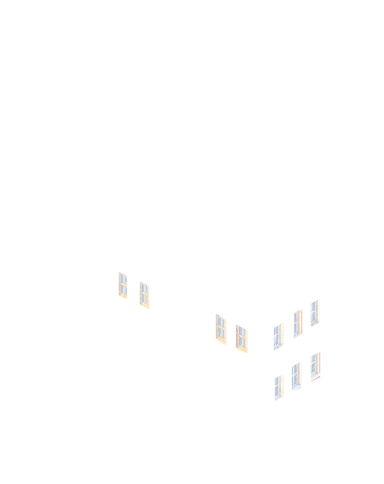
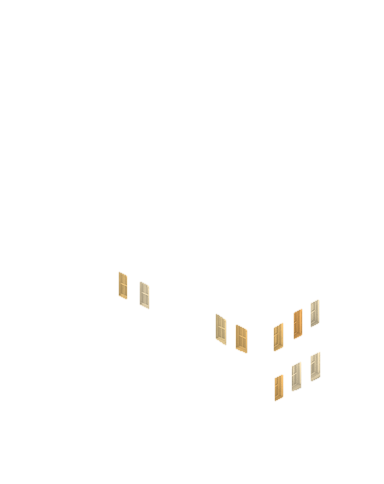
Night lights: glows are warm; a new Sign kind keeps the art's colour
'Glow' covered two things: windows that stay on all night, and things
with a colour of their own. Now a glow is lit warm exactly like a
window (and stays on all night), and a sign keeps the sprite's hue.

Of the 91 glows, 23 become signs: the clinics' and hospital's crosses
and the clinic's glass sign panel, the aquarium's tanks and dome, the
power station's plasma core and the reactor dome. The other 68 (clinic,
hospital, fire and police station windows) are now warm.

build.py writes a sign to lights.json as a glow, so the app is
unchanged. Review page: a third Sign button; G steps window, glow, sign.

diff --git a/tools/night_lights/review.html b/tools/night_lights/review.html
@@ -55,8 +55,9 @@
       <button data-tool="edit">Edit<kbd>E</kbd></button>
     </div>
     <div class="group" id="kinds" title="In Edit: the kind of the selected regions (click to change it). Otherwise: the kind of the next region you draw">
-      <button data-kind="w">Window</button>
-      <button data-kind="g">Glow (sign)</button>
+      <button data-kind="w" title="Lit warm; keeps a room's hours, dark from midnight to 5:30">Window</button>
+      <button data-kind="g" title="Lit warm like a window, but on all night">Glow</button>
+      <button data-kind="s" title="Keeps the art's own colour (a cross, a neon, a screen, a tank); on all night">Sign</button>
     </div>
     <div class="group" id="slopes" title="Which way the box's top edge runs">
       <button data-slope="0.5">╲</button>
@@ -90,7 +91,7 @@ const HELP = {
   draw: '<b>Draw</b>: click each corner of the shape (3 to 6). Click the first corner again, double-click or press <b>Enter</b> to finish; <b>Esc</b> cancels.',
   wand: '<b>Wand</b>: click inside a window; it grows to the patch of similar colour and becomes a polygon. Raise the tolerance if it stops short, lower it if it leaks.',
   lamp: '<b>Lamp</b>: click a porch lamp, a garden light, any point of light. It shines as a bright core in a round halo, from dusk until dawn. <b>[ ]</b> makes it smaller or bigger.',
-  edit: '<b>Edit</b>: click a region to select it; <b>Shift-click</b> adds or removes one; <b>drag a box</b> to select everything inside (Shift adds to the selection); <b>⌘A</b> selects all. One selected: drag a corner, double-click an edge to add a corner (up to 6), Alt-click a corner to remove it. Any selection: drag inside to move, <b>⌘D</b> duplicates, <b>Delete</b> removes, <b>G</b> or the Window / Glow buttons change the kind, <b>[ ]</b> shrink / grow, <b>Esc</b> deselects.',
+  edit: '<b>Edit</b>: click a region to select it; <b>Shift-click</b> adds or removes one; <b>drag a box</b> to select everything inside (Shift adds to the selection); <b>⌘A</b> selects all. One selected: drag a corner, double-click an edge to add a corner (up to 6), Alt-click a corner to remove it. Any selection: drag inside to move, <b>⌘D</b> duplicates, <b>Delete</b> removes, <b>G</b> or the Window / Glow / Sign buttons change the kind, <b>[ ]</b> shrink / grow, <b>Esc</b> deselects.',
 };
 const $ = (id) => document.getElementById(id);
 const S = { sprites: {}, names: [], cur: null, tool: 'box', kind: 'w', slope: 0.5, night: true, outlines: true, zoom: 0, hover: null, sels: [], drag: null, draft: null, mouse: null, tint: [80, 95, 160], undo: [] };
@@ -151,6 +152,7 @@ function render() {
   }
   if (S.outlines) {
     ctx.lineWidth = u; ctx.strokeStyle = 'rgba(120,200,255,.9)'; pathOf(ctx, on.filter((r) => r.k === 'g'), z); ctx.stroke();
+    ctx.strokeStyle = 'rgba(255,130,210,.95)'; pathOf(ctx, on.filter((r) => r.k === 's'), z); ctx.stroke();
     ctx.strokeStyle = 'rgba(255,214,150,.9)'; pathOf(ctx, on.filter((r) => r.k === 'l'), z); ctx.stroke();
   }
   if (S.hover && !S.sels.includes(S.hover)) { ctx.lineWidth = 1.5 * u; ctx.strokeStyle = 'rgba(255,255,255,.75)'; pathOf(ctx, [S.hover], z); ctx.stroke(); }
@@ -168,7 +170,7 @@ function render() {
   }
   $('title').textContent = S.cur;
   setActive('kinds', 'kind', shownKind());
-  const KIND = { w: 'window', g: 'glow', l: 'lamp' };
+  const KIND = { w: 'window', g: 'glow', s: 'sign', l: 'lamp' };
   const sel = one() ? ` · selected: ${KIND[one().k]}${one().k === 'l' ? '' : ', ' + one().p.length / 2 + ' corners'}` : S.sels.length ? ` · ${S.sels.length} selected` : '';
   $('status').textContent = `${on.length} ${on.length === 1 ? 'region' : 'regions'}${sel}`;
   $('undo').disabled = !S.undo.length;
@@ -325,10 +327,11 @@ function setActive(groupId, attr, value) { for (const b of $(groupId).children) 
 function setTool(t) { S.tool = t; S.hover = null; S.draft = null; S.drag = null; if (t !== 'edit') S.sels = []; setActive('tools', 'tool', t); $('help').innerHTML = HELP[t] + ' Everything saves as you go.'; render(); }
 function setToolKeepingSelection(t) { const sels = S.sels; setTool(t); S.sels = sels; render(); }
 $('tools').onclick = (e) => { const t = e.target.closest('button')?.dataset.tool; if (t) setTool(t); };
-// Window / Glow: in Edit with a selection, the buttons show its kind (neither when it is mixed or all
-// lamps) and change it. Otherwise they are the kind of the next region drawn, so picking Glow for
+// Window / Glow / Sign: in Edit with a selection, the buttons show its kind (none when it is mixed or
+// all lamps) and change it. Otherwise they are the kind of the next region drawn, so picking Glow for
 // the next sign does not turn the window just drawn into one.
 const editingSelection = () => S.tool === 'edit' && S.sels.length > 0;
+const NEXT_KIND = { w: 'g', g: 's', s: 'w' }; // what G steps a selection through
 function shownKind() { if (!editingSelection()) return S.kind; const rs = S.sels.filter((r) => r.k !== 'l'); return rs.length && rs.every((r) => r.k === rs[0].k) ? rs[0].k : null; }
 async function changeKind(k) {
   const rs = S.sels.filter((r) => r.k !== 'l' && r.k !== k); if (!rs.length) return;
@@ -357,7 +360,7 @@ window.addEventListener('keydown', async (e) => {
   if (k === 'escape') { if (S.draft) S.draft = null; else S.sels = []; render(); }
   else if (k === 'enter' && S.draft) await finishDraft();
   else if ((k === 'delete' || k === 'backspace') && S.sels.length) await removeSelected();
-  else if (k === 'g' && S.sels.length) await changeKind(S.sels.find((r) => r.k !== 'l')?.k === 'w' ? 'g' : 'w');
+  else if (k === 'g' && S.sels.length) await changeKind(NEXT_KIND[S.sels.find((r) => r.k !== 'l')?.k] || 'w');
   else if (k === '[' && S.sels.length) await scaleSelected(1 / 1.15);
   else if (k === ']' && S.sels.length) await scaleSelected(1.15);
   else if (k === 'arrowright') step(1); else if (k === 'arrowleft') step(-1);

diff --git a/tools/night_lights/nl_common.py b/tools/night_lights/nl_common.py
@@ -69,7 +69,7 @@ def sprite_size(name: str) -> tuple[int, int]:
 
 def regions_of(name: str, saved: dict) -> list[dict]:
     """The regions drawn on a sprite: `[{id, k, p}]`, `k` being `w`
-    (window), `g` (glow) or `l` (lamp) and `p` a flat polygon."""
+    (window), `g` (glow), `s` (sign) or `l` (lamp) and `p` a flat polygon."""
     return saved.get(name, {}).get("regions", [])
 
 
@@ -140,9 +140,10 @@ def region_centroid(polygon: list[float]) -> tuple[float, float]:
 def bake_lit(rgba: np.ndarray, regions: list[dict], sprite: str) -> np.ndarray:
     """The lit pixels of [regions] as an RGBA image the size of the sprite.
 
-    A window keeps the sprite's own detail — frames, curtains, panes — as a
-    brightness pattern, recoloured to a warm light; a `glow` region (signs,
-    lamps, screens) keeps its own hue and is pushed bright. Alpha is the
+    A window (`w`) and a glow (`g`: the same light, on all night) keep the
+    sprite's own detail — frames, curtains, panes — as a brightness pattern,
+    recoloured to a warm light. A sign (`s`: a cross, a neon, a screen, a
+    tank of water) keeps its own hue and is pushed bright. Alpha is the
     region's coverage with a one-pixel feather, clipped to the sprite.
     """
     h, w = rgba.shape[:2]
@@ -161,7 +162,7 @@ def bake_lit(rgba: np.ndarray, regions: list[dict], sprite: str) -> np.ndarray:
         values = luma[mask]
         lo, hi = np.percentile(values, 5), np.percentile(values, 95)
         norm = np.clip((luma - lo) / max(hi - lo, 0.08), 0.0, 1.0)
-        if region.get("k") == "g":
+        if region.get("k") == "s":
             # Keep the hue: scale each pixel so its brightest channel is full.
             peak = np.maximum(rgb.max(axis=2, keepdims=True), 1.0)
             colour = rgb / peak * 255.0

diff --git a/tools/night_lights/build.py b/tools/night_lights/build.py
@@ -19,6 +19,10 @@ sys.path.insert(0, str(Path(__file__).resolve().parent))
 import nl_common as nl  # noqa: E402
 
 
+# Region kind → the kind the app reads from lights.json.
+APP_KIND = {"s": "g"}
+
+
 def build_sprite(name: str, saved: dict, lights: dict) -> int:
     """Bakes one sprite; updates [lights] in place. Returns its region count.
     A sprite with no regions has no entry and no lit image."""
@@ -36,7 +40,9 @@ def build_sprite(name: str, saved: dict, lights: dict) -> int:
     h, w = rgba.shape[:2]
     lights[name] = {
         "s": [w, h],
-        "r": [{"k": r["k"], "p": r["p"]} for r in regions],
+        # The app only needs the hours: a sign burns all night like a glow,
+        # and its colour is already in the lit image.
+        "r": [{"k": APP_KIND.get(r["k"], r["k"]), "p": r["p"]} for r in regions],
     }
     return len(regions)
 

diff --git a/plan.md b/plan.md
@@ -8,8 +8,9 @@
 ## Status
 
 - **Phase:** **Phase 10 — Construction Loop (in progress; zoom-not-swap camera + wheel overlay + opening celebration device-verified 2026-09-20)** — spec in [city_builder.md §8](city_builder.md). Phase 9 is effectively complete for content (catalog + art + land); its remaining themed-maps item stays open, its upgrade-tiers and events items are superseded/deferred by Phase 10, and the price-tuning-by-playtest next action carries into Phase 10 (prices are now the *total* a site is paid down to). Phase 9 as it stood: Rich Implementation & Graphics (in progress). Implementing the [city_builder.md](city_builder.md) catalog: **all 55 §3 buildings wired and sprite-backed** (added `gym` — services, 2×2, unlocked by `sports_field`, single variant) (71/73 beats — the 2 missing are the ratio-warning beats needing the §7 TriggerRule extension), `train_station` dropped (the rail can't be drawn coherently). Road-tile sprites done, non-square footprints fixed (#90), **land expansion shipped (device-verified)**, ✅-marker sync script live. **All sprites now affine-fit their footprints** — the original 16 dimension-mismatch flags are all cleared (15 by NB regeneration, `clinic` by re-footprinting 2×1); no squash placeholders remain. Phase 8 (the city_builder.md design doc) is complete. Phase 7's headless work is complete; the remaining device-verification sweep is owed — now doable on the local Android emulator (the web-sandbox no-emulator blocker no longer applies). Phase 6 left two deliberately-deferred sub-tracks: (a) selective DeepMind expansion (variety only, optional); (b) adaptive-system + mix-policy tuning (needs playtest data first). Live counts for the curriculum are in [curriculum.md](curriculum.md).
-- **Last updated:** 2026-10-03 (window lights are warm shades only)
-- **Last action (2026-10-03, direct to `main`):** **Window lights: warm shades only.** The window palette in [nl_common.py](tools/night_lights/nl_common.py) had a neutral white and a cool blue-white among its eight colours for variety (303 of the 1,128 windows); the user found the blue ones an eyesore. Both are now warm (pale gold to amber) and all 87 lit sprites are re-baked (62 PNGs changed). Glows are untouched: they keep the art's own colour, so the 38 glows drawn on blue glass (aquarium, clinics, hospital, power plant, power station) still come out blue — the user's call whether those should be warmed too. No Dart change; 1178 tests pass; checked on the Pixel 7 AVD at 8 pm.
+- **Last updated:** 2026-10-03 (night lights: glows are warm, a new Sign kind keeps the art's colour)
+- **Last action (2026-10-03, direct to `main`):** **Night lights: glows go warm; signs keep their colour.** The user wanted every light warm except signs (the clinics' and hospital's crosses). "Glow" meant two things: windows that stay on all night, and things with a colour of their own. Now three shape kinds in [regions.json](tools/night_lights/regions.json): `w` window (warm, room hours), `g` glow (warm, all night), `s` **sign** (the art's own colour, all night). `build.py` writes a sign to `lights.json` as a glow, so the app is unchanged. Of the user's 91 glows, 23 became signs — the crosses and the clinic's glass sign panel (8), the aquarium's tanks and dome (8), the power station's plasma core (5), the reactor dome (2) — and 68 stay glows, now warm (clinic, hospital, fire and police station windows). The tanks, plasma and dome were kept in colour on my judgment after rendering both: warm turns them into flat orange panels. Review page: a third **Sign** button, G steps window → glow → sign. Browser tests 23 + 34 checks; no Dart change; 1178 tests pass.
+- **Prior action (2026-10-03, direct to `main`):** **Window lights: warm shades only.** The window palette in [nl_common.py](tools/night_lights/nl_common.py) had a neutral white and a cool blue-white among its eight colours for variety (303 of the 1,128 windows); the user found the blue ones an eyesore. Both are now warm (pale gold to amber) and all 87 lit sprites are re-baked (62 PNGs changed). Glows are untouched: they keep the art's own colour, so the 38 glows drawn on blue glass (aquarium, clinics, hospital, power plant, power station) still come out blue — the user's call whether those should be warmed too. No Dart change; 1178 tests pass; checked on the Pixel 7 AVD at 8 pm.
 - **Prior action (2026-10-03, direct to `main`):** **Street lanterns: kerbs on a checkerboard, not straight tiles only.** The user spotted a part of Sam's town with no lamps at all. Cause, measured on the town pulled from the emulator's database: [lampSpots](lib/domain/city/street_lamps.dart) lit only straight tiles on even coordinates, and the road rings round neighbouring buildings merge into two-tile-wide roads and tight grids where every tile is a junction (37 junctions, 25 bends, 7 dead ends, 26 odd straights against 24 lit tiles of 119) — the built-up middle got the fewest lamps. Now: every other road tile in a checkerboard, at a **kerb** (a side with no road beyond it), so T-junctions, wide roads, bends and dead ends are lit and only crossings stay clear; a lamp within one tile of an earlier one takes the tile's other kerb or is dropped (no doubled lamps inside bends). Sam's town: 24 → 52 lamps, even coverage. Tests rewritten (+8, **1178 pass**), analyze clean, device-verified at 8 pm. Also committed the user's later light edits (aquarium, power plant: ten windows became glows).
 - **Prior action (2026-10-03, direct to `main`):** **Night lights: the user's review is done and baked.** All 101 building sprites are marked reviewed in [regions.json](tools/night_lights/regions.json): **1,138 windows, 81 glows, 122 lamps over 87 sprites**, 14 left dark on purpose. `assets/buildings/lights.json` and `assets/buildings/lit/` (87 PNGs, 2.4 MB) are the fresh bake of that file. The review page's Window / Glow buttons now show and change the selection in Edit (they only set the next region's kind before, which misled the user), and it refuses zero-area regions. Analyze clean, **1170 tests pass**; checked on the Pixel 7 AVD at night.
 - **Prior action (2026-10-02, direct to `main`):** **Debug time-of-day control.** In debug builds a tap on the city screen's clock chip opens [clock_debug_sheet.dart](lib/presentation/city/clock_debug_sheet.dart): a slider over the whole day in quarter hours, six presets (6 am … 2 am) and a *Pause the clock* switch that outlasts the sheet for the visit (the chip shows ⏸; `_debugClockPaused` joins chapter one in freezing `AmbientClock`). The sheet has no scrim, so the town shows the hour as the slider moves. Asked for by the user to check their hand-drawn night windows (nine sprites so far, uncommitted in their checkout), which look right on the Pixel 7 AVD at 8 pm. +6 widget tests; analyze clean, **1170 tests pass**; device-verified.

diff --git a/tools/night_lights/README.md b/tools/night_lights/README.md
@@ -27,13 +27,21 @@ window, never more than six.
 - **Lamp** (L): click a point of light: a porch lamp, a garden light, a
   bulb on a string. No shape to draw; the app paints a bright core in a
   round halo there. `[` and `]` resize it.
-- **Window / Glow**: in Edit with regions selected, the two buttons show
-  their kind and clicking one changes them (as does G); neither is lit
-  when the selection is mixed or all lamps. In the drawing tools, or with
-  nothing selected, they set what the next region you draw will be. A
-  *window* is relit warm and keeps a room's hours (dark from midnight to
-  5:30). A *glow* (a sign, a screen, a ride) keeps its own colour. **Glows
-  and lamps stay on all night**, from dusk until dawn.
+- **Window / Glow / Sign**: the kind of a shape.
+  - A *window* is lit warm and keeps a room's hours (dark from midnight to
+    5:30).
+  - A *glow* is lit warm exactly like a window but **stays on all night**:
+    a hospital ward, a police station, a shop front that never closes.
+  - A *sign* **keeps the art's own colour** and stays on all night: a red
+    cross, a neon, a screen, a tank of water, a reactor's glow.
+
+  Windows and glows are always warm (pale gold to amber), whatever the
+  glass looks like by day; only a sign shows the sprite's colour. In Edit
+  with regions selected, the three buttons show their kind and clicking one
+  changes them (G steps window → glow → sign); none is lit when the
+  selection is mixed or all lamps. In the drawing tools, or with nothing
+  selected, they set what the next region you draw will be. Lamps stay on
+  all night too.
 - **Edit** (E): click a region to select it.
   - **Several at once:** Shift-click adds or removes one; drag a box to
     select everything whose centre is inside it (Shift adds to what is
@@ -45,7 +53,7 @@ window, never more than six.
   - With any selection: drag inside it to move it; **⌘D / Ctrl-D
     duplicates it** (the copies land a little down and to the right,
     selected, ready to drag: the quick way down a row of like windows);
-    Delete removes it; G flips it between *window* and *glow*; `[` and `]`
+    Delete removes it; G steps it through *window*, *glow* and *sign*; `[` and `]`
     shrink and grow each shape about its centre; Esc deselects. Each of
     these is one undo step, however many regions it touched.
   - Delete, G, `[ ]` and ⌘D also work on the region you have just drawn,
@@ -64,8 +72,8 @@ its nights are simply dark.
 
 | File | What |
 |---|---|
-| `regions.json` | Every region a person drew, per sprite (`id`, kind `w` / `g` / `l`, polygon), and the reviewed flags. The source of truth. |
-| `build.py` | `regions.json` → `assets/buildings/lights.json` and `assets/buildings/lit/`. |
+| `regions.json` | Every region a person drew, per sprite (`id`, kind `w` window / `g` glow / `s` sign / `l` lamp, polygon), and the reviewed flags. The source of truth. |
+| `build.py` | `regions.json` → `assets/buildings/lights.json` and `assets/buildings/lit/`. The app only needs hours, so a sign is written to `lights.json` as a glow; its colour is in the lit image. |
 | `serve.py`, `review.html` | The review page. |
 | `nl_common.py` | Shared: the lit-pixel bake, the wand's polygon fit, the night preview. |
 

diff --git a/city_builder.md b/city_builder.md
@@ -2057,7 +2057,9 @@ as dark glass. A window is a shape, not a colour.
 2. **Draw** (`tools/night_lights/serve.py`, a local page). Every sprite
    at night, starting blank. **Every region is a simple polygon of at
    most six corners**: drag a box, click out a polygon, or use the magic
-   wand; a region is a *window*, a *glow* (sign, screen, ride) or a
+   wand; a region is a *window*, a *glow* (a window that stays on all
+   night), a *sign* (keeps the art's own colour: a cross, a screen, a
+   tank) or a
    *lamp* (one click on a point of light). Edit: drag a corner or the
    whole shape, double-click an edge to add a corner, Alt-click one to
    remove it; Shift-click or drag a box to select many and move, delete
@@ -2066,7 +2068,8 @@ as dark glass. A window is a shape, not a colour.
 3. **Bake** (`build.py`). The lit pixels are the sprite's own, recoloured:
    a window keeps its frames and curtains as a brightness pattern in one
    of a few warm shades, pale gold to amber, picked per window (no white
-   or blue ones: they looked wrong beside the rest); a glow keeps its hue; a lamp
+   or blue ones: they looked wrong beside the rest), and a glow is lit the
+   same way; only a sign keeps its hue; a lamp
    bakes nothing (the app draws it). Output:
    `assets/buildings/lights.json` (polygons + kind) and
    `assets/buildings/lit/<sprite>.png`.
@@ -2094,7 +2097,7 @@ identical houses never switch together.
 | Venue | entertainment | about 17:00 | 22:30 – 23:45 | none |
 
 **No window is lit from midnight to 5:30**, whatever the profile.
-**Signs and lamps (glows and lamp points) burn all night** (the user's
+**Glows, signs and lamps burn all night** (the user's
 call, 2026-10-02): on at about 17:00 with the building, each within
 minutes of the others, off between 6:20 and 6:45. A light takes 0.05 clock hours to
 fade. Lights only show once the scene is dark enough (they ramp in with
@@ -2160,7 +2163,10 @@ within four tenths of a tile.
 ### 12.5 Open
 
 - [x] **The user drew the lights** on all 101 sprites in the review page
-  (2026-10-03): 1,138 windows, 81 glows and 122 lamps over 87 sprites; 14
+  (2026-10-03): 1,128 windows, 68 glows, 23 signs and 122 lamps over 87 sprites
+  (the glows were split into warm glows and own-colour signs the same day:
+  the user wanted warm light everywhere except signs such as the clinics'
+  crosses); 14
   sprites are left dark on purpose (market stalls, playgrounds, water
   towers, the pool and the like).
 - [x] Headlight style and street lamp picked and built (H3, L3).
